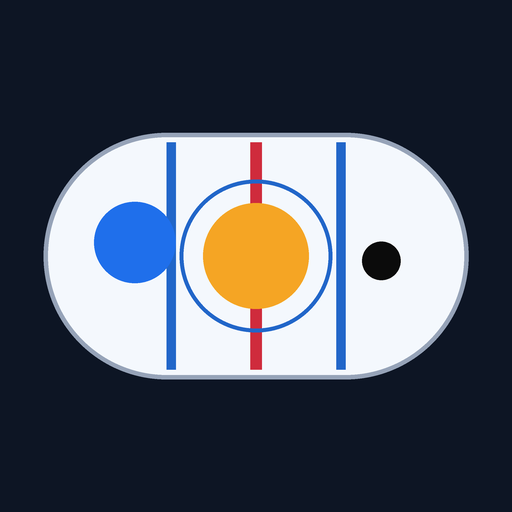
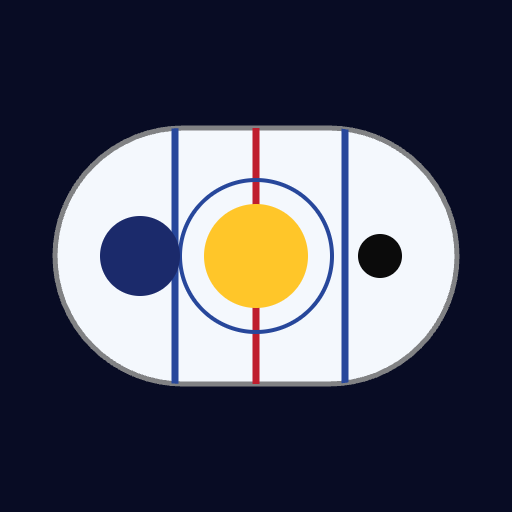
Deploy build 2026-08-21.12
index.html and sw.js (hockey-iq-v17) updated. Refresh the 6 icons to the
revised design (navy accent, grey rink outline, full-height blue lines).
audio/ and manifest.webmanifest unchanged: lines.json is byte-identical to
the deployed copy, so audio/manifest.json stays at 577 ids.

diff --git a/index.html b/index.html
@@ -31,7 +31,7 @@ window.addEventListener('error',function(ev){
   --bg:#080c24; --bg2:#111838; --bg3:#1a2350; --line:#2a3566;
   --ink:#f1f4fa; --dim:#98a0b8;
   --us:#2a4fa8; --us2:#5a7fd8; --them:#bf1e2e; --hi:#c6243a;
-  --def:#bf1e2e; --tra:#5f697f; --off:#3e6fd0;
+  --def:#bf1e2e; --tra:#ffc629; --off:#3e6fd0;
   --you:#ffc629;
 }
 *{box-sizing:border-box}
@@ -62,11 +62,15 @@ select,input{touch-action:manipulation}
 .screen.on{display:flex}
 
 /* ======== MENU ======== */
-#sc-menu{align-items:center;justify-content:center;overflow:auto;-webkit-overflow-scrolling:touch;
+#sc-menu{align-items:center;justify-content:flex-start;overflow:auto;-webkit-overflow-scrolling:touch;
   padding:calc(24px + env(safe-area-inset-top)) calc(20px + env(safe-area-inset-right))
           calc(24px + env(safe-area-inset-bottom)) calc(20px + env(safe-area-inset-left))}
-.menuwrap{width:100%;max-width:1080px;text-align:center}
-.menuwrap h1{font-size:30px;margin-bottom:5px}
+.menuwrap{width:100%;max-width:1080px;text-align:center;margin:auto}
+.brand{display:flex;align-items:center;justify-content:center;gap:12px;margin-bottom:5px}
+.brandmark{flex:0 0 auto;width:46px;height:46px;border-radius:11px;
+  border:1px solid rgba(255,255,255,.12);box-shadow:0 3px 12px rgba(0,0,0,.4)}
+.menuwrap h1{font-size:30px;margin:0}
+@media (max-width:430px){ .brandmark{width:38px;height:38px} .menuwrap h1{font-size:25px} }
 .lede{color:var(--dim);font-size:15px;margin:0 0 22px}
 .menucols{display:grid;grid-template-columns:repeat(3,1fr);gap:14px;text-align:left}
 .mcol{background:var(--bg2);border:1px solid var(--line);border-top:4px solid var(--def);
@@ -83,7 +87,7 @@ select,input{touch-action:manipulation}
   padding:11px 13px 9px;color:#14243f}
 .mdot{display:inline-block;width:8px;height:8px;border-radius:3px;margin-right:7px;vertical-align:1px}
 .mitem .mthumb{display:flex;align-items:center;justify-content:center;position:relative;background:#fff;
-  width:100%;aspect-ratio:2.2;overflow:hidden;
+  width:100%;aspect-ratio:2.26;overflow:hidden;
   border-top:1px solid #e4ebf4;border-bottom:1px solid #e4ebf4}
 .mitem .mthumb svg{display:block;width:100%;height:100%}
 .mitem .mgo{position:absolute;right:8px;bottom:8px;display:inline-flex;align-items:center;
@@ -510,7 +514,7 @@ input[type=range]{accent-color:var(--us2)}
 <!-- =============== MENU =============== -->
 <section id="sc-menu" class="screen on">
   <div class="menuwrap">
-    <h1>Hockey IQ Rink</h1>
+    <div class="brand"><img class="brandmark" src="icons/icon-192.png" alt="" width="46" height="46"><h1>Hockey IQ Rink</h1></div>
     <p class="lede">Everything on the ice is one of three things. Pick what is happening.</p>
     <div class="menucols" id="menucols"></div>
 
@@ -610,7 +614,7 @@ input[type=range]{accent-color:var(--us2)}
     <h4>1. Every situation is one of three things</h4>
     <div class="phrow"><span class="pchip" style="background:#bf1e2e">DEFENSE</span>
       <span><b>They have the puck.</b> Our job is to get it back. Nobody chases the puck - everybody takes a job.</span></div>
-    <div class="phrow"><span class="pchip" style="background:#5f697f">TRANSITION</span>
+    <div class="phrow"><span class="pchip" style="background:#ffc629;color:#12204f">TRANSITION</span>
       <span><b>The puck just changed hands.</b> The fastest part of hockey. Move it up the ice before they get set.</span></div>
     <div class="phrow"><span class="pchip" style="background:#3e6fd0">OFFENSE</span>
       <span><b>We have the puck.</b> Keep it and score. Being in the right spot matters more than being fast.</span></div>
@@ -641,7 +645,7 @@ input[type=range]{accent-color:var(--us2)}
     <div class="phrow"><span class="pchip" style="background:#bf1e2e">ANDROID</span>
       <span>Open it in <b>Chrome</b> and tap <b>Install</b> when it offers, or use the menu (three dots) and
       <b>Add to Home screen</b>.</span></div>
-    <div class="phrow"><span class="pchip" style="background:#5f697f">ANY</span>
+    <div class="phrow"><span class="pchip" style="background:#ffc629;color:#12204f">ANY</span>
       <span>Share it by sending the link. Nothing to sign up for and nothing to download from a store.</span></div>
     <div class="help">One warning worth knowing: phones clear browser storage when they run low on space.
       If you build your own plays, go to Settings and <b>save them to a file</b> so they cannot be lost.</div>
@@ -1658,11 +1662,12 @@ const CHANNELS = [
    and a single play can move from one to the next. That is the
    whole point: the phase changes while you watch.
    ============================================================ */
+const phaseInk=c=>c==='#ffc629'?'#12204f':'#fff';
 const PHASE={
   D:{k:'D',label:'DEFENSE',  col:'#bf1e2e',
      sub:'They have the puck. Our job is to get it back.',
      say:'Defense. They have the puck. Our job is to get it back.'},
-  T:{k:'T',label:'TRANSITION',col:'#5f697f',
+  T:{k:'T',label:'TRANSITION',col:'#ffc629',
      sub:'The puck just changed hands. Move it up the ice, fast.',
      say:'Transition. The puck just changed hands. Move it up the ice, fast.'},
   O:{k:'O',label:'OFFENSE',  col:'#3e6fd0',
@@ -2157,7 +2162,7 @@ const S={
   manual:{}, mode:'learn', tab:'look', screen:'menu', fs:1, narrating:false,
   opt:{roles:true,ghost:true,look:true,space:true,pass:false,lanes:false,them:true,trail:true,zoom:true,flip:false,focus:true}
 };
-const BUILD='2026-08-21.4';
+const BUILD='2026-08-21.12';
 window.__hiqBuild=BUILD;
 const SPK={on:false, rate:0.92, voice:null, list:[], ok:('speechSynthesis' in window)};
 /* baked audio: AUDIO.have[id]=true once audio/manifest.json says a real file exists for
@@ -2202,7 +2207,7 @@ function loadAudioManifest(){
   }).catch(()=>{ AUDIO.loaded=true; });
 }
 loadAudioManifest();
-const TEST={active:false, qs:[], i:0, right:0, answered:false, done:false, retried:false, lastRight:false};
+const TEST={active:false, qs:[], i:0, right:0, answered:false, done:false, retried:false, lastRight:false, clue:0};
 let CUSTOM=[];
 
 const variant=()=>S.sit.variants[S.varIdx];
@@ -2349,6 +2354,62 @@ function camera(){
   return a.map((n,k)=>+(n+(b[k]-n)*u).toFixed(2));
 }
 
+/* Is a placement question live and still unanswered? Everything below hangs off this. */
+function placeQ(){
+  if(!TEST.active||TEST.answered) return null;
+  const q=TEST.qs[TEST.i];
+  return (q&&q.type==='place')?q:null;
+}
+/* Clue words built from the ANSWER's own coordinates, so they can never be wrong and
+   never need authoring. Deliberately flip-safe: no top/bottom/left/right, only
+   hockey ideas a 10-year-old already has - our end, the boards, the puck. */
+function clueWords(q){
+  const c=correct(q.pos,S.t); if(!c) return '';
+  const p=puckAt(S.t).p, bits=[];
+  bits.push(c[0]<75?'in OUR OWN end':(c[0]<=125?'around the MIDDLE of the ice':'in THEIR end'));
+  if(c[1]<22||c[1]>63) bits.push('close to the BOARDS');
+  else if(c[1]>30&&c[1]<55) bits.push('in the MIDDLE lane');
+  const dx=c[0]-p[0];
+  if(Math.abs(dx)<9) bits.push('about level with the puck');
+  else if(dx<0) bits.push('closer to our own net than the puck');
+  else bits.push('further up the ice than the puck');
+  const sameSide=(c[1]-42.5)*(p[1]-42.5)>0, near=Math.abs(c[1]-p[1])<14;
+  if(near) bits.push('near the puck');
+  else if(sameSide) bits.push('on the puck\'s side');
+  else bits.push('on the far side from the puck');
+  return 'Look '+bits.join(', ')+'.';
+}
+/* The area to hunt in, shown by shadowing the rest of the sheet - the same idiom as
+   the follow-camera spotlight, so it reads as "the answer is in the light part".
+   Sits under the tokens, so the dot he is dragging stays crisp. */
+function drawClueZone(q,level){
+  const c=correct(q.pos,S.t); if(!c) return;
+  const b=disp(c), r=level>=2?9:18, g=layer('ghost'), mid='cluehole';
+  const defs=el('defs'), mk=el('mask',{id:mid,maskUnits:'userSpaceOnUse',x:0,y:0,width:200,height:85});
+  mk.appendChild(el('rect',{x:0,y:0,width:200,height:85,fill:'#fff'}));
+  mk.appendChild(el('circle',{cx:b[0],cy:b[1],r:r*1.14,fill:'#8a8a8a'}));   // just enough feather
+  mk.appendChild(el('circle',{cx:b[0],cy:b[1],r,fill:'#000'}));
+  defs.appendChild(mk); g.appendChild(defs);
+  g.appendChild(el('rect',{x:0,y:0,width:200,height:85,fill:'#131a33','fill-opacity':0.5,
+    mask:'url(#'+mid+')','clip-path':'url(#rinkclip)'}));
+  g.appendChild(el('circle',{cx:b[0],cy:b[1],r,fill:'none',stroke:'#5f697f',
+    'stroke-width':0.5,'stroke-dasharray':'2.4 1.8'}));
+}
+/* The dot he is meant to grab: a ring that never stops pulsing, and the words on the ice. */
+function drawDragMe(p){
+  const g=layer('focus'), r=TR();
+  const ring=el('circle',{cx:p[0],cy:p[1],r:r*1.7,fill:'none',stroke:'#c98a00','stroke-width':0.6});
+  ring.appendChild(el('animate',{attributeName:'r',values:(r*1.5).toFixed(2)+';'+(r*3).toFixed(2)+';'+(r*1.5).toFixed(2),
+    dur:'1.6s',repeatCount:'indefinite'}));
+  ring.appendChild(el('animate',{attributeName:'stroke-opacity',values:'0.95;0.15;0.95',dur:'1.6s',repeatCount:'indefinite'}));
+  g.appendChild(ring);
+  const ly=p[1]-r*3.1;
+  g.appendChild(el('path',{d:'M'+(p[0]-1.6)+','+(ly+1.1)+' L'+(p[0]+1.6)+','+(ly+1.1)+' L'+p[0]+','+(ly+3.2)+' z',fill:'#c98a00'}));
+  ['#fff','#8a6000'].forEach((col,i)=>g.appendChild(el('text',Object.assign(
+    {x:p[0],y:ly,'font-size':FS(3),'text-anchor':'middle','font-weight':850,fill:col},
+    i===0?{stroke:'#fff','stroke-width':1.5,'stroke-linejoin':'round'}:{}),'DRAG ME')));
+}
+
 /* the step whose words are on screen right now */
 function cueFrame(t){
   const f=frames(); let best=f[0];
@@ -2410,7 +2471,7 @@ function render(){
     S.fs = w<360?1.5 : w<440?1.36 : w<560?1.24 : w<700?1.1 : 1;
   }
   ['fade','labels','lanes','trail','pass','space','ghost','focus','tok','look','puck'].forEach(k=>layer(k).innerHTML='');
-  if(S.opt.zoom){
+  if(S.opt.zoom&&!(placeQ()&&TEST.clue>=1)){
     const gr=$('spotgrad');
     if(gr){ gr.setAttribute('cx',(vb[0]+vb[2]/2).toFixed(1)); gr.setAttribute('cy',(vb[1]+vb[3]/2).toFixed(1));
             gr.setAttribute('r',(Math.max(vb[2],vb[3])*0.66).toFixed(1)); }
@@ -2524,18 +2585,22 @@ function render(){
   const gather=id=>{ const p=shown(id,t); if(p)pts.push(disp(p)); };
   if(S.opt.them) THEMIDS.forEach(gather);
   sit.roster.forEach(gather);
+  /* On a placement question every other dot goes quiet, so the one he has to move is
+     the only bright thing on the ice. */
+  const pq=placeQ();
   if(S.opt.them) THEMIDS.forEach(id=>{
     const p=shown(id,t); if(!p)return;
-    token(id,disp(p),'them',id==='XG'?'G':id.slice(1),(S.opt.roles&&dist(p,puckPos)<=18)?roleText(roles[id]):null,pts,dist(p,puckPos)>18);
+    token(id,disp(p),'them',id==='XG'?'G':id.slice(1),(S.opt.roles&&!pq&&dist(p,puckPos)<=18)?roleText(roles[id]):null,pts,pq?true:dist(p,puckPos)>18);
   });
   // draw YOU last so it is always the token on top and always grabbable
   sit.roster.filter(id=>id!==S.pos).forEach(id=>{
     const p=shown(id,t); if(!p)return;
-    token(id,disp(p),'us',id==='G'?'G':id,null,null,id!==pk.w&&dist(p,puckPos)>26);
+    token(id,disp(p),'us',id==='G'?'G':id,null,null,pq?true:(id!==pk.w&&dist(p,puckPos)>26));
   });
+  if(pq&&TEST.clue>=1) drawClueZone(pq,TEST.clue);
   if(sit.roster.includes(S.pos)){
     const p=shown(S.pos,t);
-    if(p) token(S.pos,disp(p),'me',S.pos);
+    if(p){ token(S.pos,disp(p),'me',S.pos); if(pq) drawDragMe(disp(p)); }
   }
   if(eff('focus')&&!S.playing&&S.mode==='learn') drawFocus(t);
 
@@ -2685,7 +2750,7 @@ function paintCue(){
 }
 function renderTopbar(){
   const p=PHASE[phaseAt(S.t)];
-  $('p-phase').textContent=p.label; $('p-phase').style.background=p.col;
+  $('p-phase').textContent=p.label; $('p-phase').style.background=p.col; $('p-phase').style.color=phaseInk(p.col);
   $('p-name').textContent=S.sit.name;
   $('p-sub').textContent = S.mode==='build' ? 'Building your play'
     : (S.mode==='quiz' ? variant().name : variant().name+'  -  '+p.sub);
@@ -3119,7 +3184,7 @@ function stageSituation(){
   const p=PHASE[S.sit.phase];
   STAGE.step='situation'; STAGE.label='The situation'; STAGE.cue=S.sit.about;
   $('stagecard').innerHTML=
-    '<span class="pill" style="background:'+p.col+'">'+p.label+'</span>'+
+    '<span class="pill" style="background:'+p.col+';color:'+phaseInk(p.col)+'">'+p.label+'</span>'+
     '<h2>'+esc(S.sit.name)+'</h2>'+
     '<p class="stagewhat">'+esc(S.sit.about)+'</p>'+
     '<p class="stagesay">'+esc(p.say)+'</p>'+
@@ -3220,14 +3285,7 @@ function thumbSVG(sit){
   Object.keys(them).forEach(k=>pts.push(them[k]));
   if(pk) pts.push([pk[0],pk[1]]);
   if(!pts.length) return '';
-  const xs=pts.map(p=>p[0]), ys=pts.map(p=>p[1]), pad=15, AR=2.2;
-  let x=Math.min.apply(null,xs)-pad, y=Math.min.apply(null,ys)-pad;
-  let w=Math.max.apply(null,xs)+pad-x, h=Math.max.apply(null,ys)+pad-y;
-  if(w/h<AR){ const nw=h*AR; x-=(nw-w)/2; w=nw; } else { const nh=w/AR; y-=(nh-h)/2; h=nh; }
-  // keep the box on the sheet: slide it back inside 0..200 / 0..85 rather than
-  // padding out over the boards, which leaves the rink floating with dead space
-  if(w<=200) x=Math.min(Math.max(x,0),200-w); else x=(200-w)/2;
-  if(h<=85)  y=Math.min(Math.max(y,0),85-h);  else y=(85-h)/2;
+  const x=-3, y=-3, w=206, h=91;
   const cid='tc-'+String(sit.id).replace(/[^a-z0-9]/gi,'');
   const L=(x1,y1,x2,y2,c,sw)=>'<line x1="'+x1+'" y1="'+y1+'" x2="'+x2+'" y2="'+y2+'" stroke="'+c+'" stroke-width="'+sw+'"/>';
   let g='<svg viewBox="'+[x,y,w,h].map(n=>n.toFixed(1)).join(' ')+'" preserveAspectRatio="xMidYMid meet" aria-hidden="true">';
@@ -3523,7 +3581,7 @@ function startTest(scope){
   TEST.qs=qs; TEST.active=true; showQuestion();
 }
 function showQuestion(){
-  const q=TEST.qs[TEST.i]; TEST.answered=false; TEST.retried=false; TEST.lastRight=false;
+  const q=TEST.qs[TEST.i]; TEST.answered=false; TEST.retried=false; TEST.lastRight=false; TEST.clue=0;
   if(!q){ finishTest(); return; }
   const s=sitById(q.sit);
   if(s){ S.sit=s; const i=s.variants.findIndex(v=>v.id===q.v); S.varIdx=i<0?0:i; }
@@ -3556,17 +3614,31 @@ function railQuiz(){
        q.o.map((o,i)=>'<button class="opt" data-i="'+i+'">'+esc(o)+'</button>').join('')+'</div>';
   } else {
     const ask='<span class="qtype place">Put yourself in the right spot</span><div class="qtext">'+esc(q.ask)+'</div>'+
-       '<p style="font-size:13px;color:#93a3bd;margin:0 0 12px">You are the <b>'+POSNAMES[q.pos]+
-       '</b>. Drag the yellow <b>YOU</b> on the ice, then check it. The vision beams and the ghost stay hidden until you commit.</p>';
+       '<p style="font-size:13px;color:#93a3bd;margin:0 0 10px">You are the <b>'+POSNAMES[q.pos]+
+       '</b>. Find the yellow dot that says <b>DRAG ME</b> and pull it where you belong.</p>';
+    const clue='<div id="cluebox"></div>'+
+       (TEST.clue<2?'<button class="bigbtn plain" id="cluebtn" style="width:100%;margin-bottom:8px">'+
+         (TEST.clue===0?'I need a clue':'Make the area smaller')+'</button>':'');
     const btn='<button class="bigbtn blue" id="checkspot" style="width:100%">Check my spot</button>';
-    /* on a phone the question is already under the ice, so the button gets the peek */
-    h+= isPhone() ? btn+'<div style="height:10px"></div>'+ask : ask+btn;
+    /* on a phone the question is already under the ice, so the buttons get the peek -
+       and the clue button must be up there with them, not below the fold */
+    h+= isPhone() ? btn+'<div style="height:8px"></div>'+clue+ask : ask+clue+btn;
   }
   h+='<div id="whybox"></div><div class="spacer"></div>'+
      '<button class="bigbtn plain" id="quitquiz">Stop the quiz</button>';
   $('rail').innerHTML=h;
   if(q.type==='mc') $('opts').querySelectorAll('.opt').forEach(b=>b.onclick=()=>answerMC(+b.dataset.i));
-  else $('checkspot').onclick=checkSpot;
+  else {
+    $('checkspot').onclick=checkSpot;
+    const cb=$('cluebtn');
+    if(cb) cb.onclick=()=>{ TEST.clue++; railQuiz(); render(); };
+    const box=$('cluebox');
+    if(box&&TEST.clue>=1){
+      box.innerHTML='<div style="font-size:13.5px;line-height:1.35;color:#ffd98a;background:rgba(255,198,41,.1);'+
+        'border:1px solid rgba(255,198,41,.32);border-radius:10px;padding:9px 11px;margin-bottom:8px">'+
+        esc(clueWords(q))+(TEST.clue>=1?' <b>The bright part of the ice is where to look.</b>':'')+'</div>';
+    }
+  }
   $('quitquiz').onclick=()=>setMode('learn');
 }
 function answerMC(i){
@@ -3584,7 +3656,7 @@ function checkSpot(){
   const mine=S.manual[q.pos]||[100,42.5], c=correct(q.pos,S.t), d=dist(mine,c);
   const right=d<=10;
   TEST.lastRight=right;
-  if(right&&!TEST.retried) TEST.right++;          // the score comes from the first try
+  if(right&&!TEST.retried&&TEST.clue<2) TEST.right++;   // first try; the tight area costs the point
   const job=((S.sit.coach||{})[q.pos]||{}).job||'';
   render();
   const head = right ? (TEST.retried?'There it is.':(d<=5?'Bang on.':'Good spot.'))
@@ -3597,7 +3669,7 @@ function checkSpot(){
 }
 function retrySpot(){
   const q=TEST.qs[TEST.i]; if(!q||q.type!=='place')return;
-  TEST.answered=false; TEST.retried=true; TEST.lastRight=false;
+  TEST.answered=false; TEST.retried=true; TEST.lastRight=false; TEST.clue=0;
   S.manual={}; S.manual[q.pos]=[100,42.5];
   railQuiz(); render();
   if(SPK.on) speakLines(chunk('Have another go.',{rate:0.95,pause:240})
@@ -3781,7 +3853,7 @@ const PENDING=[];
 function hitRow(phase,label,btn,fn,dim){
   PENDING.push(fn);
   return '<div class="hit"'+(dim?' style="border-left-color:'+phase.col+';opacity:.8"':' style="border-left-color:'+phase.col+'"')+'>'+
-    '<span class="pchip" style="background:'+phase.col+'">'+phase.label+'</span>'+
+    '<span class="pchip" style="background:'+phase.col+';color:'+phaseInk(phase.col)+'">'+phase.label+'</span>'+
     '<span style="flex:1">'+esc(label)+'</span>'+
     '<button class="go">'+btn+'</button></div>';
 }
@@ -3957,7 +4029,7 @@ function railBuild(){
   $('bname').onchange=()=>{ play.name=$('bname').value.trim()||'My play'; renderTopbar(); buildMenu(); };
   const ph=$('bphase');
   ph.innerHTML=['D','T','O'].map(k=>'<button data-k="'+k+'" style="'+
-    (play.phase===k?'background:'+PHASE[k].col+';color:#ffffff;border-color:'+PHASE[k].col:'')+'">'+
+    (play.phase===k?'background:'+PHASE[k].col+';color:'+phaseInk(PHASE[k].col)+';border-color:'+PHASE[k].col:'')+'">'+
     PHASE[k].label+'</button>').join('');
   ph.querySelectorAll('button').forEach(b=>b.onclick=()=>{ play.phase=b.dataset.k; railBuild(); render(); });
 

diff --git a/sw.js b/sw.js
@@ -1,6 +1,6 @@
 /* Hockey IQ Rink - offline cache.
    Bump CACHE when you change any file, otherwise browsers keep serving the old one. */
-const CACHE = 'hockey-iq-v9';
+const CACHE = 'hockey-iq-v17';
 const ASSETS = [
   './',
   './index.html',
